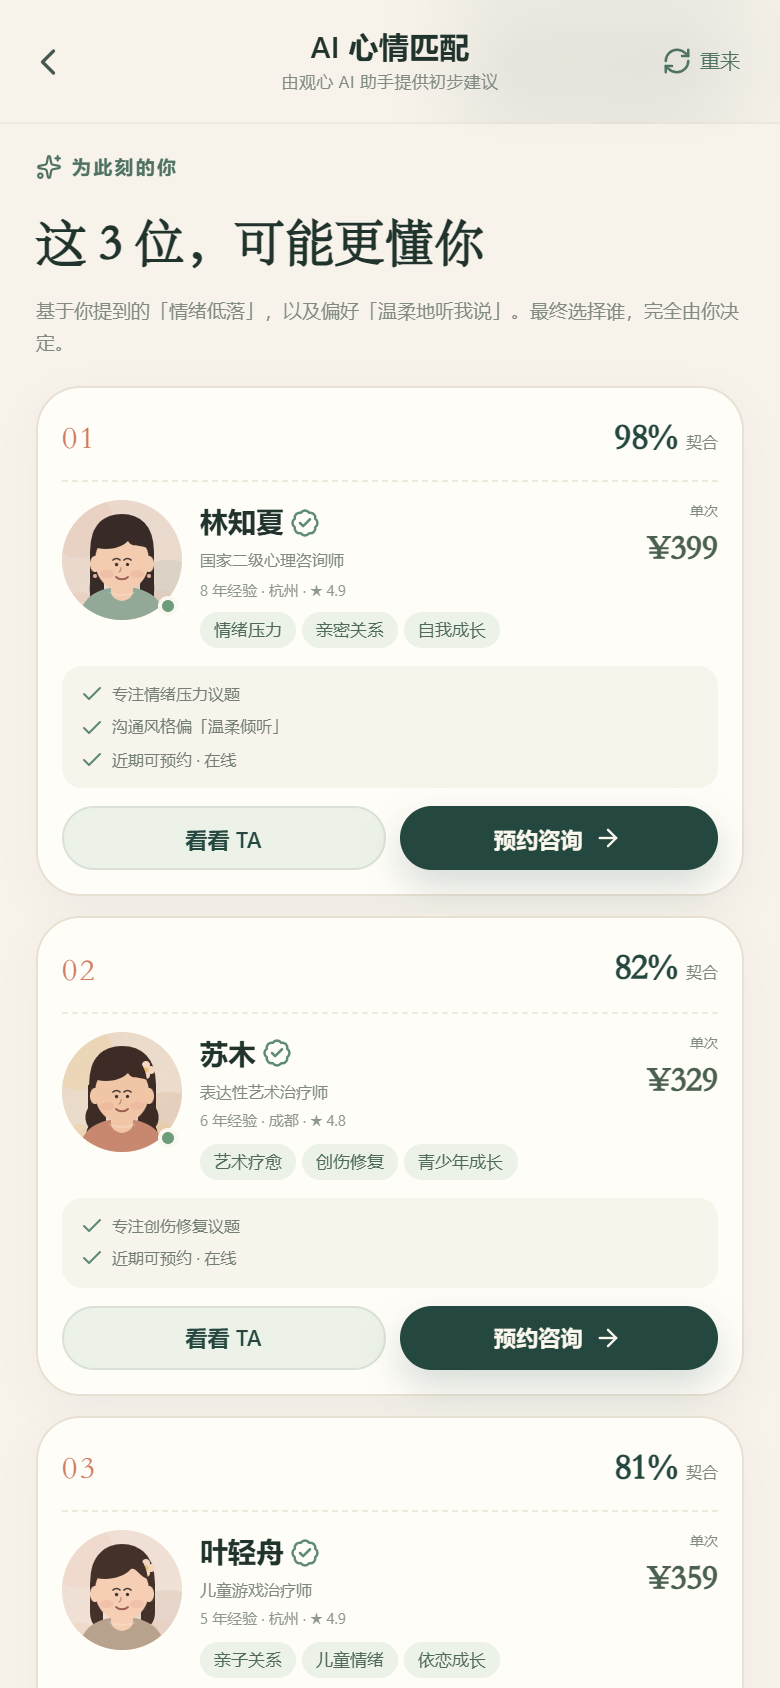
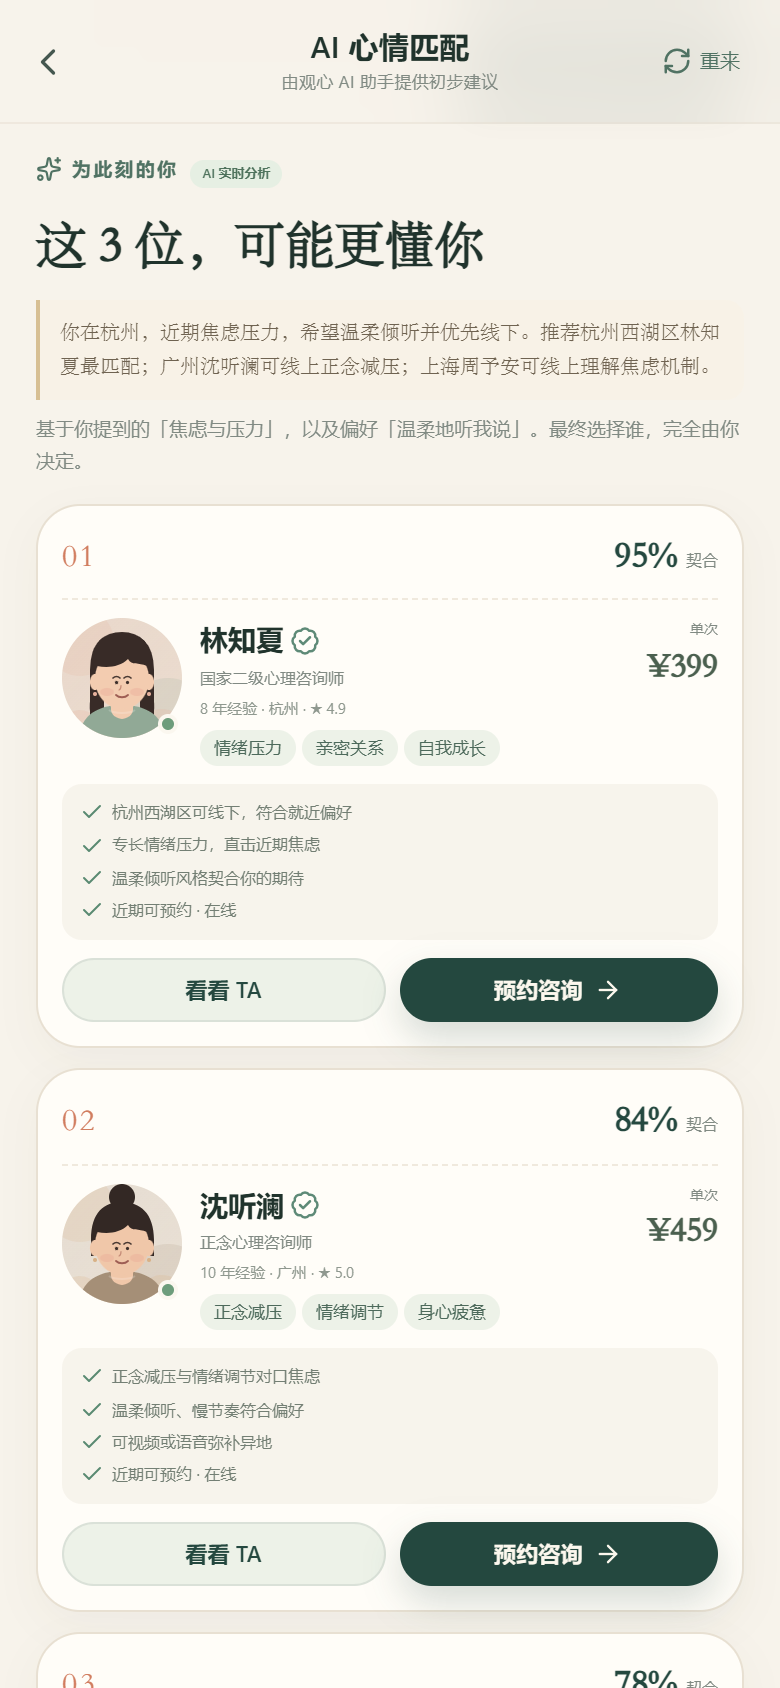
Integrate real AI counselor matching through server-side LLM

diff --git a/src/screens/AIAssistantScreen.tsx b/src/screens/AIAssistantScreen.tsx
@@ -6,6 +6,7 @@ import { Avatar } from '../components/Avatar'
 import { RegionSheet, Tag, TopBar } from '../components/UI'
 import type { Counselor } from '../types'
 import { clamp, cn, regionLabel } from '../utils'
+import { serverApi } from '../api'
 
 interface AiMessage {
   id: string
@@ -151,7 +152,11 @@ export function AIAssistantScreen() {
   const [typing, setTyping] = useState(false)
   const [phase, setPhase] = useState<'chat' | 'matching' | 'results'>('chat')
   const [regionOpen, setRegionOpen] = useState(false)
+  const [aiRecommendations, setAiRecommendations] = useState<Recommendation[] | null>(null)
+  const [aiSummary, setAiSummary] = useState('')
+  const [aiSource, setAiSource] = useState<'ai' | 'local'>('local')
   const timers = useRef<number[]>([])
+  const matchRequest = useRef(0)
   const chatEnd = useRef<HTMLDivElement>(null)
   const resultsRef = useRef<HTMLDivElement>(null)
 
@@ -178,17 +183,58 @@ export function AIAssistantScreen() {
     return () => window.clearTimeout(timer)
   }, [phase])
 
-  const recommendations = useMemo(() => {
+  const localRecommendations = useMemo(() => {
     return state.counselors
       .map((c) => scoreCounselor(c, answers, currentUser?.region.city ?? ''))
       .sort((a, b) => b.score - a.score)
       .slice(0, 3)
   }, [answers, currentUser?.region.city, state.counselors])
 
+  const recommendations = aiRecommendations ?? localRecommendations
+
+  const runAiMatch = async (finalAnswers: Record<string, string>) => {
+    const requestId = ++matchRequest.current
+    const city = currentUser?.region.city ?? ''
+    const fallback = state.counselors
+      .map((c) => scoreCounselor(c, finalAnswers, city))
+      .sort((a, b) => b.score - a.score)
+    try {
+      const data = await serverApi.aiMatch(finalAnswers, city)
+      if (requestId !== matchRequest.current) return
+      const mapped: Recommendation[] = []
+      for (const item of data.recommendations) {
+        const counselor = state.counselors.find((c) => c.id === item.counselorId)
+        if (!counselor) continue
+        const reasons = item.reasons.filter(Boolean).slice(0, 3)
+        mapped.push({
+          counselor,
+          score: item.score,
+          reasons: reasons.length > 0 ? reasons : [`专注${counselor.specialties[0]}，与你此刻的困扰贴近`],
+        })
+        if (mapped.length >= 3) break
+      }
+      for (const item of fallback) {
+        if (mapped.length >= 3) break
+        if (!mapped.some((m) => m.counselor.id === item.counselor.id)) mapped.push(item)
+      }
+      setAiRecommendations(mapped)
+      setAiSummary(data.summary)
+      setAiSource('ai')
+    } catch {
+      if (requestId !== matchRequest.current) return
+      setAiRecommendations(null)
+      setAiSummary('')
+      setAiSource('local')
+    } finally {
+      if (requestId === matchRequest.current) setPhase('results')
+    }
+  }
+
   const choose = (option: string) => {
     if (typing || phase !== 'chat') return
     const question = QUESTIONS[step]
-    setAnswers((prev) => ({ ...prev, [question.id]: option }))
+    const finalAnswers = { ...answers, [question.id]: option }
+    setAnswers(finalAnswers)
     setMessages((prev) => [...prev, { id: `me-${Date.now()}`, role: 'me', text: option }])
     setTyping(true)
 
@@ -196,7 +242,9 @@ export function AIAssistantScreen() {
       schedule(() => {
         setTyping(false)
         setPhase('matching')
-        schedule(() => setPhase('results'), 2100)
+        setAiSummary('')
+        setAiRecommendations(null)
+        void runAiMatch(finalAnswers)
       }, 800)
     } else {
       schedule(() => {
@@ -212,6 +260,7 @@ export function AIAssistantScreen() {
 
   const restart = () => {
     timers.current.forEach((t) => window.clearTimeout(t))
+    matchRequest.current += 1
     setMessages([
       {
         id: 'ai-welcome-again',
@@ -224,6 +273,9 @@ export function AIAssistantScreen() {
     setStep(0)
     setTyping(false)
     setPhase('chat')
+    setAiRecommendations(null)
+    setAiSummary('')
+    setAiSource('local')
   }
 
   const currentQuestion = QUESTIONS[step]
@@ -298,7 +350,7 @@ export function AIAssistantScreen() {
               <span className="is-active">
                 <span className="tiny-spinner" /> 正在匹配擅长方向
               </span>
-              <span>结合地区与预算</span>
+              <span>结合地区、预算与真实咨询师资料</span>
             </div>
           </div>
         )}
@@ -310,10 +362,19 @@ export function AIAssistantScreen() {
                 <Sparkles size={13} />
                 为此刻的你
               </span>
+              <span className={cn('ai-source-badge', aiSource === 'ai' ? 'is-ai' : 'is-local')}>
+                {aiSource === 'ai' ? 'AI 实时分析' : '本地规则匹配'}
+              </span>
               <h2>这 3 位，可能更懂你</h2>
+              {aiSummary && <p className="ai-summary">{aiSummary}</p>}
               <p>
                 基于你提到的「{answers.concern}」，以及偏好「{answers.style}」。最终选择谁，完全由你决定。
               </p>
+              {aiSource === 'local' && (
+                <p className="ai-source-note">
+                  实时 AI 服务暂不可用，本次使用本地规则匹配；你仍可以正常查看与预约咨询师。
+                </p>
+              )}
             </div>
 
             {recommendations.map(({ counselor, score, reasons }, index) => (
@@ -385,6 +446,7 @@ export function AIAssistantScreen() {
             <p className="ai-disclaimer">
               <ShieldCheck size={13} />
               AI 建议仅作为参考，不构成诊断或治疗意见。你可以自由选择是否预约。
+              {aiSource === 'ai' && ' 本次推荐由服务端调用大模型生成；发送内容仅包含你的选项、城市与咨询师公开资料，不包含手机号或密码。'}
             </p>
           </div>
         )}

diff --git a/src/styles/core.css b/src/styles/core.css
@@ -1616,7 +1616,48 @@
 }
 
 .ai-result-heading {
+  position: relative;
   padding: 9px 0 3px;
+}
+
+.ai-source-badge {
+  display: inline-flex;
+  align-items: center;
+  margin-left: 6px;
+  padding: 2px 6px;
+  border-radius: 999px;
+  font-size: 6.5px;
+  font-weight: 600;
+  vertical-align: middle;
+}
+
+.ai-source-badge.is-ai {
+  background: #e6efe3;
+  color: #4f735d;
+}
+
+.ai-source-badge.is-local {
+  background: #f2eee4;
+  color: #968b78;
+}
+
+.ai-result-heading .ai-summary {
+  margin-top: 8px;
+  padding: 8px 10px;
+  border-left: 2px solid rgba(190, 150, 78, 0.55);
+  border-radius: 0 9px 9px 0;
+  background: rgba(248, 242, 230, 0.85);
+  color: #6f6351;
+  font-family: var(--display);
+  font-size: 10px;
+  line-height: 1.7;
+}
+
+.ai-result-heading .ai-source-note {
+  margin-top: 5px;
+  color: #aa9a83;
+  font-size: 7px;
+  line-height: 1.6;
 }
 
 .ai-result-heading h2 {

diff --git a/src/api.ts b/src/api.ts
@@ -74,6 +74,17 @@ export const serverApi = {
       body: JSON.stringify(patch),
     })
   },
+  async aiMatch(answers: Record<string, string>, city: string) {
+    return apiFetch<{
+      ok: boolean
+      summary: string
+      recommendations: Array<{ counselorId: string; score: number; reasons: string[] }>
+      model: string
+    }>('/api/ai/match', {
+      method: 'POST',
+      body: JSON.stringify({ answers, city }),
+    })
+  },
   async purchaseVip(tier: 'week' | 'month' | 'year') {
     return apiFetch<{ ok: boolean; user: User }>('/api/me/vip', {
       method: 'POST',

diff --git a/README.md b/README.md
@@ -113,7 +113,7 @@ AI_MODEL=deepseek-chat
 - 管理员密码只在服务端 `.env` 中读取，不会进入前端包。
 - 首次启动会把 `server/seed-data.json` 中的咨询师、机构、动态、直播内容写入数据库；**不会创建演示用户**。
 - 种子咨询师是初始内容档案，未绑定登录账号；真实咨询师必须走「认证入驻 → 管理员审核」流程后才能登录工作台。
-- AI 相关变量已预留，但当前 AI 匹配仍是本地规则，尚未接入大模型。
+- 配置 `AI_API_KEY` 后，AI 心情匹配会调用服务端 `/api/ai/match`，由 DeepSeek 等 OpenAI 兼容模型生成真实推荐；未配置或调用失败时回退本地规则，界面会明确标注「本地规则匹配」。
 
 ### 静态前端 / 本地回退
 
@@ -153,7 +153,9 @@ npm start
 
 ### 3. AI 心情匹配
 - 五轮对话式提问：困扰方向、持续时间、陪伴偏好、预算、咨询方式。
-- 当前根据困扰、沟通风格、预算、地区、年限进行本地规则匹配；`.env` 已预留大模型配置，但尚未发起真实 AI 请求。
+- 配置 `AI_API_KEY` 后，服务端把用户回答、城市与咨询师公开资料发送给大模型，由模型返回 3 位推荐、契合度与个性化理由；结果会标注「AI 实时分析」。
+- 发送内容不包含手机号、密码或聊天记录；密钥只保存在服务端 `.env`，不会进入前端包。
+- 未配置密钥或模型调用失败时，自动回退到本地规则匹配，不影响预约流程。
 - 展示 3 位推荐咨询师、匹配度与推荐理由。
 - 用户可自由查看主页、预约、重新匹配，AI 不替用户做选择。
 
@@ -298,10 +300,11 @@ My_Heart/
 - 咨询师账号、证件 `multipart` 上传、审核状态与审核记录。
 - 管理员后台登录、查看证件、通过/退回、审核落库。
 - 审核通过后创建公开咨询师档案，用户端可见并可预约/聊天。
+- **AI 心情匹配**：配置 `AI_API_KEY` 后由服务端调用 DeepSeek 兼容接口，返回真实模型推荐；密钥只存在服务端。
 
 ### 仍为本地或第三方待接入
 
-- **AI 匹配**：当前仍是本地可解释规则；`.env` 已预留 `AI_API_KEY`，但没有密钥时不会伪造真实 AI 调用。
+- **AI 匹配（无密钥时）**：未配置 `AI_API_KEY` 或上游失败时使用本地规则，并在结果页标注「本地规则匹配」。
 - **直播**：房间与文字互动可用，但未接入真实音视频推流；需要声网、腾讯云、LiveKit、Cloudflare Stream 等服务。
 - **支付 / VIP / 礼物**：仍为模拟流程，不会产生真实扣款或发货；需要微信/支付宝商户号与服务端订单回调。
 - **解压房间、五种小游戏、朋友聊天**：仍是本地交互与本地回复，尚未接入服务端。
